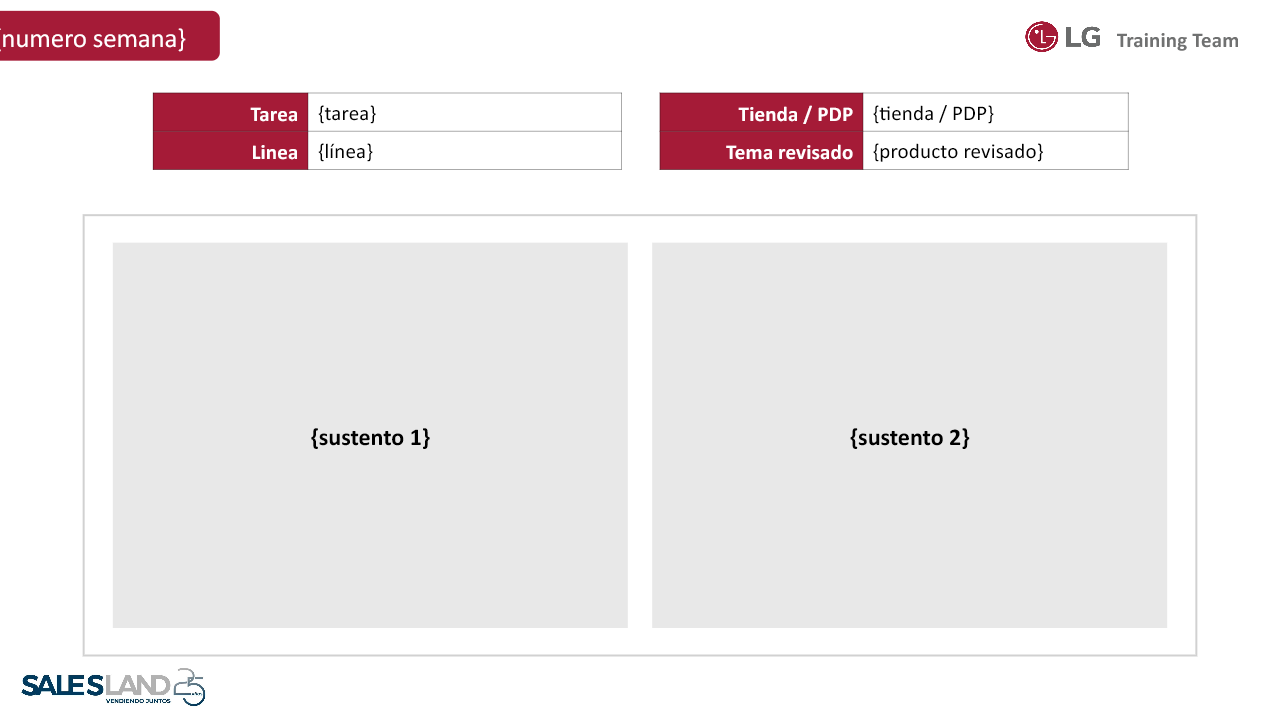
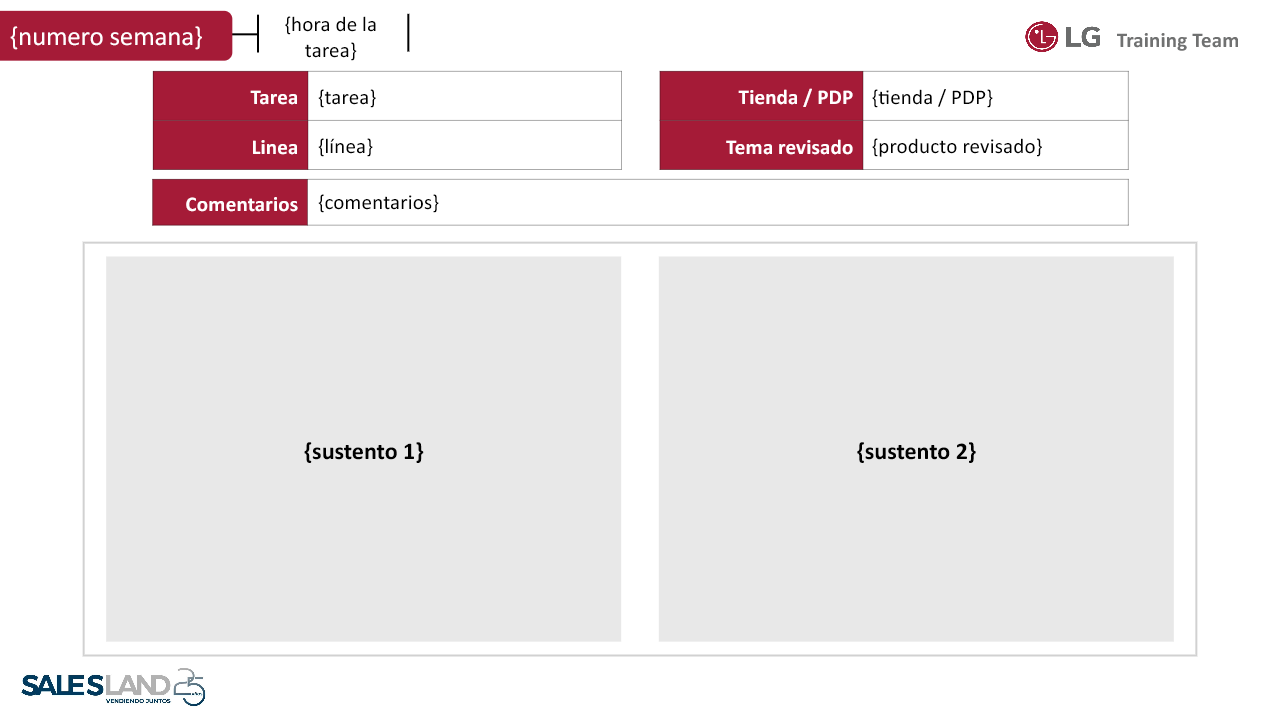
Mejora formato del reporte fotografico

diff --git a/index.html b/index.html
@@ -3660,7 +3660,7 @@
       const DEFAULT_BREAK_START = "12:30";
       const DEFAULT_BREAK_END = "14:00";
       const EARLIEST_OVERTIME_START = "05:00";
-      const APP_VERSION = "42-weekly-photo-report1";
+      const APP_VERSION = "43-weekly-photo-report2";
       const HOURLY_CLOUD_MAINTENANCE_MS = 60 * 60 * 1000;
       const HOURLY_CLOUD_MAINTENANCE_KEY = "task-hub-hourly-cloud-maintenance-v1";
       const APP_MODE = document.documentElement.classList.contains("app-mode");
@@ -6428,6 +6428,7 @@
               taskDate: task.dueDate,
               schedule: taskTimeLabel(task),
               task: task.title,
+              taskDescription: task.description || "",
               line: task.product || "",
               category: task.category || "",
               trainingTopic: evidence?.trainingTopic || "",
@@ -7078,7 +7079,7 @@
             });
           }
           const trainerGroup = trainerGroups.get(row.trainerId);
-          const entryKey = `${row.taskId}:${row.evidenceId || row.evidenceDate}:${row.schedule}`;
+          const entryKey = `${row.taskId}:${row.taskDate}:${row.schedule}`;
           if (!trainerGroup.entries.has(entryKey)) {
             trainerGroup.entries.set(entryKey, {
               taskDate: row.taskDate,
@@ -7087,22 +7088,53 @@
               line: row.line || "GENERAL",
               store: row.store || "No aplica",
               topic: row.trainingTopic || row.reviewedProduct || row.category || "No aplica",
+              comments: new Set(),
               rows: []
             });
           }
-          trainerGroup.entries.get(entryKey).rows.push(row);
+          const entry = trainerGroup.entries.get(entryKey);
+          const comment = clean(row.notes || row.taskDescription);
+          if (comment) entry.comments.add(comment);
+          entry.rows.push(row);
         });
         return Array.from(trainerGroups.values())
           .map((group) => ({
             ...group,
-            entries: Array.from(group.entries.values()).sort(
-              (a, b) => a.taskDate.localeCompare(b.taskDate) || a.schedule.localeCompare(b.schedule) || a.task.localeCompare(b.task, "es")
-            )
+            entries: Array.from(group.entries.values())
+              .map((entry) => ({
+                ...entry,
+                comments: Array.from(entry.comments).join(" | ") || "Sin comentarios"
+              }))
+              .sort(
+                (a, b) => a.taskDate.localeCompare(b.taskDate) || a.schedule.localeCompare(b.schedule) || a.task.localeCompare(b.task, "es")
+              )
           }))
           .sort((a, b) => a.trainer.localeCompare(b.trainer, "es"));
       }
 
-      function addPhotoReportValue(slide, text, frame, fontSize = 15) {
+      function summarizePhotoReportText(value, maxLength = 80) {
+        const source = clean(value);
+        if (!source || source.length <= maxLength) return source || "No aplica";
+        const sentences = source.match(/[^.!?]+[.!?]+/g) || [];
+        let summary = "";
+        for (const sentence of sentences) {
+          const candidate = clean(`${summary} ${sentence}`);
+          if (candidate.length > maxLength) break;
+          summary = candidate;
+        }
+        if (summary.length >= Math.min(32, Math.floor(maxLength * 0.45))) return summary;
+        const words = source.split(/\s+/);
+        summary = "";
+        for (const word of words) {
+          const candidate = summary ? `${summary} ${word}` : word;
+          if (candidate.length > Math.max(8, maxLength - 3)) break;
+          summary = candidate;
+        }
+        return `${summary || source.slice(0, Math.max(8, maxLength - 3)).trim()}...`;
+      }
+
+      function addPhotoReportValue(slide, text, frame, options = {}) {
+        const { fontSize = 15, maxLength = 80, align = "left" } = options;
         slide.addShape("rect", {
           x: frame.x,
           y: frame.y,
@@ -7111,7 +7143,7 @@
           fill: { color: "FFFFFF" },
           line: { color: "FFFFFF", transparency: 100 }
         });
-        slide.addText(clean(text) || "No aplica", {
+        slide.addText(summarizePhotoReportText(text, maxLength), {
           x: frame.x + 0.06,
           y: frame.y + 0.01,
           w: frame.w - 0.12,
@@ -7120,6 +7152,7 @@
           fontSize,
           color: "222222",
           margin: 0,
+          align,
           valign: "mid",
           breakLine: false,
           fit: "shrink"
@@ -7235,22 +7268,68 @@
                 margin: 0,
                 fit: "shrink"
               });
-              addPhotoReportValue(detail, entry.task, { x: 3.21, y: 0.965, w: 3.26, h: 0.39 }, 15);
-              addPhotoReportValue(detail, entry.line, { x: 3.21, y: 1.365, w: 3.26, h: 0.39 }, 15);
-              addPhotoReportValue(detail, entry.store, { x: 8.99, y: 0.965, w: 2.77, h: 0.39 }, 14);
-              addPhotoReportValue(detail, entry.topic, { x: 8.99, y: 1.365, w: 2.77, h: 0.39 }, 14);
+              addPhotoReportValue(detail, entry.schedule, { x: 2.754, y: 0.052, w: 1.382, h: 0.634 }, {
+                fontSize: 14,
+                maxLength: 24,
+                align: "center"
+              });
+              addPhotoReportValue(detail, entry.task, { x: 3.21, y: 0.74, w: 3.26, h: 0.51 }, {
+                fontSize: 14,
+                maxLength: 58
+              });
+              addPhotoReportValue(detail, entry.line, { x: 3.21, y: 1.254, w: 3.26, h: 0.51 }, {
+                fontSize: 14,
+                maxLength: 32
+              });
+              addPhotoReportValue(detail, entry.store, { x: 8.99, y: 0.74, w: 2.77, h: 0.51 }, {
+                fontSize: 13,
+                maxLength: 42
+              });
+              addPhotoReportValue(detail, entry.topic, { x: 8.99, y: 1.254, w: 2.77, h: 0.51 }, {
+                fontSize: 13,
+                maxLength: 46
+              });
+              addPhotoReportValue(detail, entry.comments, { x: 3.21, y: 1.835, w: 8.54, h: 0.51 }, {
+                fontSize: 12,
+                maxLength: 155
+              });
+              detail.addNotes(
+                [
+                  `Fecha: ${entry.taskDate}`,
+                  `Week: ${isoWeekNumber(entry.taskDate)}`,
+                  `Horario: ${entry.schedule}`,
+                  `Tarea completa: ${entry.task}`,
+                  `Linea: ${entry.line}`,
+                  `Tienda / PDP: ${entry.store}`,
+                  `Tema revisado: ${entry.topic}`,
+                  `Comentarios completos: ${entry.comments}`
+                ].join("\n")
+              );
+              detail.addShape("rect", {
+                x: 1.106,
+                y: 2.672,
+                w: 11.122,
+                h: 4.012,
+                fill: { color: "FFFFFF" },
+                line: { color: "FFFFFF", transparency: 100 }
+              });
+              const singlePhotoFrame = { x: 3.984, y: 2.672, w: 5.365, h: 4.012 };
+              const leftPhotoFrame = { x: 1.106, y: 2.672, w: 5.365, h: 4.012 };
+              const rightPhotoFrame = { x: 6.863, y: 2.672, w: 5.365, h: 4.012 };
               addPhotoReportImage(
                 detail,
                 pageRows[0],
                 attachments.get(reportFileKey(pageRows[0])),
-                { x: 1.175, y: 2.528, w: 5.365, h: 4.014 }
+                pageRows.length === 1 ? singlePhotoFrame : leftPhotoFrame
               );
-              addPhotoReportImage(
-                detail,
-                pageRows[1],
-                pageRows[1] ? attachments.get(reportFileKey(pageRows[1])) : null,
-                { x: 6.793, y: 2.528, w: 5.365, h: 4.014 }
-              );
+              if (pageRows.length === 2) {
+                addPhotoReportImage(
+                  detail,
+                  pageRows[1],
+                  attachments.get(reportFileKey(pageRows[1])),
+                  rightPhotoFrame
+                );
+              }
             }
           });
         });

diff --git a/operativo.html b/operativo.html
@@ -3660,7 +3660,7 @@
       const DEFAULT_BREAK_START = "12:30";
       const DEFAULT_BREAK_END = "14:00";
       const EARLIEST_OVERTIME_START = "05:00";
-      const APP_VERSION = "42-weekly-photo-report1";
+      const APP_VERSION = "43-weekly-photo-report2";
       const HOURLY_CLOUD_MAINTENANCE_MS = 60 * 60 * 1000;
       const HOURLY_CLOUD_MAINTENANCE_KEY = "task-hub-hourly-cloud-maintenance-v1";
       const APP_MODE = document.documentElement.classList.contains("app-mode");
@@ -6428,6 +6428,7 @@
               taskDate: task.dueDate,
               schedule: taskTimeLabel(task),
               task: task.title,
+              taskDescription: task.description || "",
               line: task.product || "",
               category: task.category || "",
               trainingTopic: evidence?.trainingTopic || "",
@@ -7078,7 +7079,7 @@
             });
           }
           const trainerGroup = trainerGroups.get(row.trainerId);
-          const entryKey = `${row.taskId}:${row.evidenceId || row.evidenceDate}:${row.schedule}`;
+          const entryKey = `${row.taskId}:${row.taskDate}:${row.schedule}`;
           if (!trainerGroup.entries.has(entryKey)) {
             trainerGroup.entries.set(entryKey, {
               taskDate: row.taskDate,
@@ -7087,22 +7088,53 @@
               line: row.line || "GENERAL",
               store: row.store || "No aplica",
               topic: row.trainingTopic || row.reviewedProduct || row.category || "No aplica",
+              comments: new Set(),
               rows: []
             });
           }
-          trainerGroup.entries.get(entryKey).rows.push(row);
+          const entry = trainerGroup.entries.get(entryKey);
+          const comment = clean(row.notes || row.taskDescription);
+          if (comment) entry.comments.add(comment);
+          entry.rows.push(row);
         });
         return Array.from(trainerGroups.values())
           .map((group) => ({
             ...group,
-            entries: Array.from(group.entries.values()).sort(
-              (a, b) => a.taskDate.localeCompare(b.taskDate) || a.schedule.localeCompare(b.schedule) || a.task.localeCompare(b.task, "es")
-            )
+            entries: Array.from(group.entries.values())
+              .map((entry) => ({
+                ...entry,
+                comments: Array.from(entry.comments).join(" | ") || "Sin comentarios"
+              }))
+              .sort(
+                (a, b) => a.taskDate.localeCompare(b.taskDate) || a.schedule.localeCompare(b.schedule) || a.task.localeCompare(b.task, "es")
+              )
           }))
           .sort((a, b) => a.trainer.localeCompare(b.trainer, "es"));
       }
 
-      function addPhotoReportValue(slide, text, frame, fontSize = 15) {
+      function summarizePhotoReportText(value, maxLength = 80) {
+        const source = clean(value);
+        if (!source || source.length <= maxLength) return source || "No aplica";
+        const sentences = source.match(/[^.!?]+[.!?]+/g) || [];
+        let summary = "";
+        for (const sentence of sentences) {
+          const candidate = clean(`${summary} ${sentence}`);
+          if (candidate.length > maxLength) break;
+          summary = candidate;
+        }
+        if (summary.length >= Math.min(32, Math.floor(maxLength * 0.45))) return summary;
+        const words = source.split(/\s+/);
+        summary = "";
+        for (const word of words) {
+          const candidate = summary ? `${summary} ${word}` : word;
+          if (candidate.length > Math.max(8, maxLength - 3)) break;
+          summary = candidate;
+        }
+        return `${summary || source.slice(0, Math.max(8, maxLength - 3)).trim()}...`;
+      }
+
+      function addPhotoReportValue(slide, text, frame, options = {}) {
+        const { fontSize = 15, maxLength = 80, align = "left" } = options;
         slide.addShape("rect", {
           x: frame.x,
           y: frame.y,
@@ -7111,7 +7143,7 @@
           fill: { color: "FFFFFF" },
           line: { color: "FFFFFF", transparency: 100 }
         });
-        slide.addText(clean(text) || "No aplica", {
+        slide.addText(summarizePhotoReportText(text, maxLength), {
           x: frame.x + 0.06,
           y: frame.y + 0.01,
           w: frame.w - 0.12,
@@ -7120,6 +7152,7 @@
           fontSize,
           color: "222222",
           margin: 0,
+          align,
           valign: "mid",
           breakLine: false,
           fit: "shrink"
@@ -7235,22 +7268,68 @@
                 margin: 0,
                 fit: "shrink"
               });
-              addPhotoReportValue(detail, entry.task, { x: 3.21, y: 0.965, w: 3.26, h: 0.39 }, 15);
-              addPhotoReportValue(detail, entry.line, { x: 3.21, y: 1.365, w: 3.26, h: 0.39 }, 15);
-              addPhotoReportValue(detail, entry.store, { x: 8.99, y: 0.965, w: 2.77, h: 0.39 }, 14);
-              addPhotoReportValue(detail, entry.topic, { x: 8.99, y: 1.365, w: 2.77, h: 0.39 }, 14);
+              addPhotoReportValue(detail, entry.schedule, { x: 2.754, y: 0.052, w: 1.382, h: 0.634 }, {
+                fontSize: 14,
+                maxLength: 24,
+                align: "center"
+              });
+              addPhotoReportValue(detail, entry.task, { x: 3.21, y: 0.74, w: 3.26, h: 0.51 }, {
+                fontSize: 14,
+                maxLength: 58
+              });
+              addPhotoReportValue(detail, entry.line, { x: 3.21, y: 1.254, w: 3.26, h: 0.51 }, {
+                fontSize: 14,
+                maxLength: 32
+              });
+              addPhotoReportValue(detail, entry.store, { x: 8.99, y: 0.74, w: 2.77, h: 0.51 }, {
+                fontSize: 13,
+                maxLength: 42
+              });
+              addPhotoReportValue(detail, entry.topic, { x: 8.99, y: 1.254, w: 2.77, h: 0.51 }, {
+                fontSize: 13,
+                maxLength: 46
+              });
+              addPhotoReportValue(detail, entry.comments, { x: 3.21, y: 1.835, w: 8.54, h: 0.51 }, {
+                fontSize: 12,
+                maxLength: 155
+              });
+              detail.addNotes(
+                [
+                  `Fecha: ${entry.taskDate}`,
+                  `Week: ${isoWeekNumber(entry.taskDate)}`,
+                  `Horario: ${entry.schedule}`,
+                  `Tarea completa: ${entry.task}`,
+                  `Linea: ${entry.line}`,
+                  `Tienda / PDP: ${entry.store}`,
+                  `Tema revisado: ${entry.topic}`,
+                  `Comentarios completos: ${entry.comments}`
+                ].join("\n")
+              );
+              detail.addShape("rect", {
+                x: 1.106,
+                y: 2.672,
+                w: 11.122,
+                h: 4.012,
+                fill: { color: "FFFFFF" },
+                line: { color: "FFFFFF", transparency: 100 }
+              });
+              const singlePhotoFrame = { x: 3.984, y: 2.672, w: 5.365, h: 4.012 };
+              const leftPhotoFrame = { x: 1.106, y: 2.672, w: 5.365, h: 4.012 };
+              const rightPhotoFrame = { x: 6.863, y: 2.672, w: 5.365, h: 4.012 };
               addPhotoReportImage(
                 detail,
                 pageRows[0],
                 attachments.get(reportFileKey(pageRows[0])),
-                { x: 1.175, y: 2.528, w: 5.365, h: 4.014 }
+                pageRows.length === 1 ? singlePhotoFrame : leftPhotoFrame
               );
-              addPhotoReportImage(
-                detail,
-                pageRows[1],
-                pageRows[1] ? attachments.get(reportFileKey(pageRows[1])) : null,
-                { x: 6.793, y: 2.528, w: 5.365, h: 4.014 }
-              );
+              if (pageRows.length === 2) {
+                addPhotoReportImage(
+                  detail,
+                  pageRows[1],
+                  attachments.get(reportFileKey(pageRows[1])),
+                  rightPhotoFrame
+                );
+              }
             }
           });
         });

diff --git a/functions/api/[[path]].js b/functions/api/[[path]].js
@@ -300,7 +300,7 @@ async function healthStatus(db, env) {
   ]);
   return json({
     ok: true,
-    version: "42-weekly-photo-report1",
+    version: "43-weekly-photo-report2",
     schema: SCHEMA_VERSION,
     r2: r2StorageEnabled(env),
     migration: {

diff --git a/functions/cloud/[[path]].js b/functions/cloud/[[path]].js
@@ -300,7 +300,7 @@ async function healthStatus(db, env) {
   ]);
   return json({
     ok: true,
-    version: "42-weekly-photo-report1",
+    version: "43-weekly-photo-report2",
     schema: SCHEMA_VERSION,
     r2: r2StorageEnabled(env),
     migration: {

diff --git a/sw.js b/sw.js
@@ -1,4 +1,4 @@
-const CACHE_NAME = "task-hub-shell-v42-weekly-photo-report1";
+const CACHE_NAME = "task-hub-shell-v43-weekly-photo-report2";
 const APP_SHELL = [
   "/",
   "/index.html",
